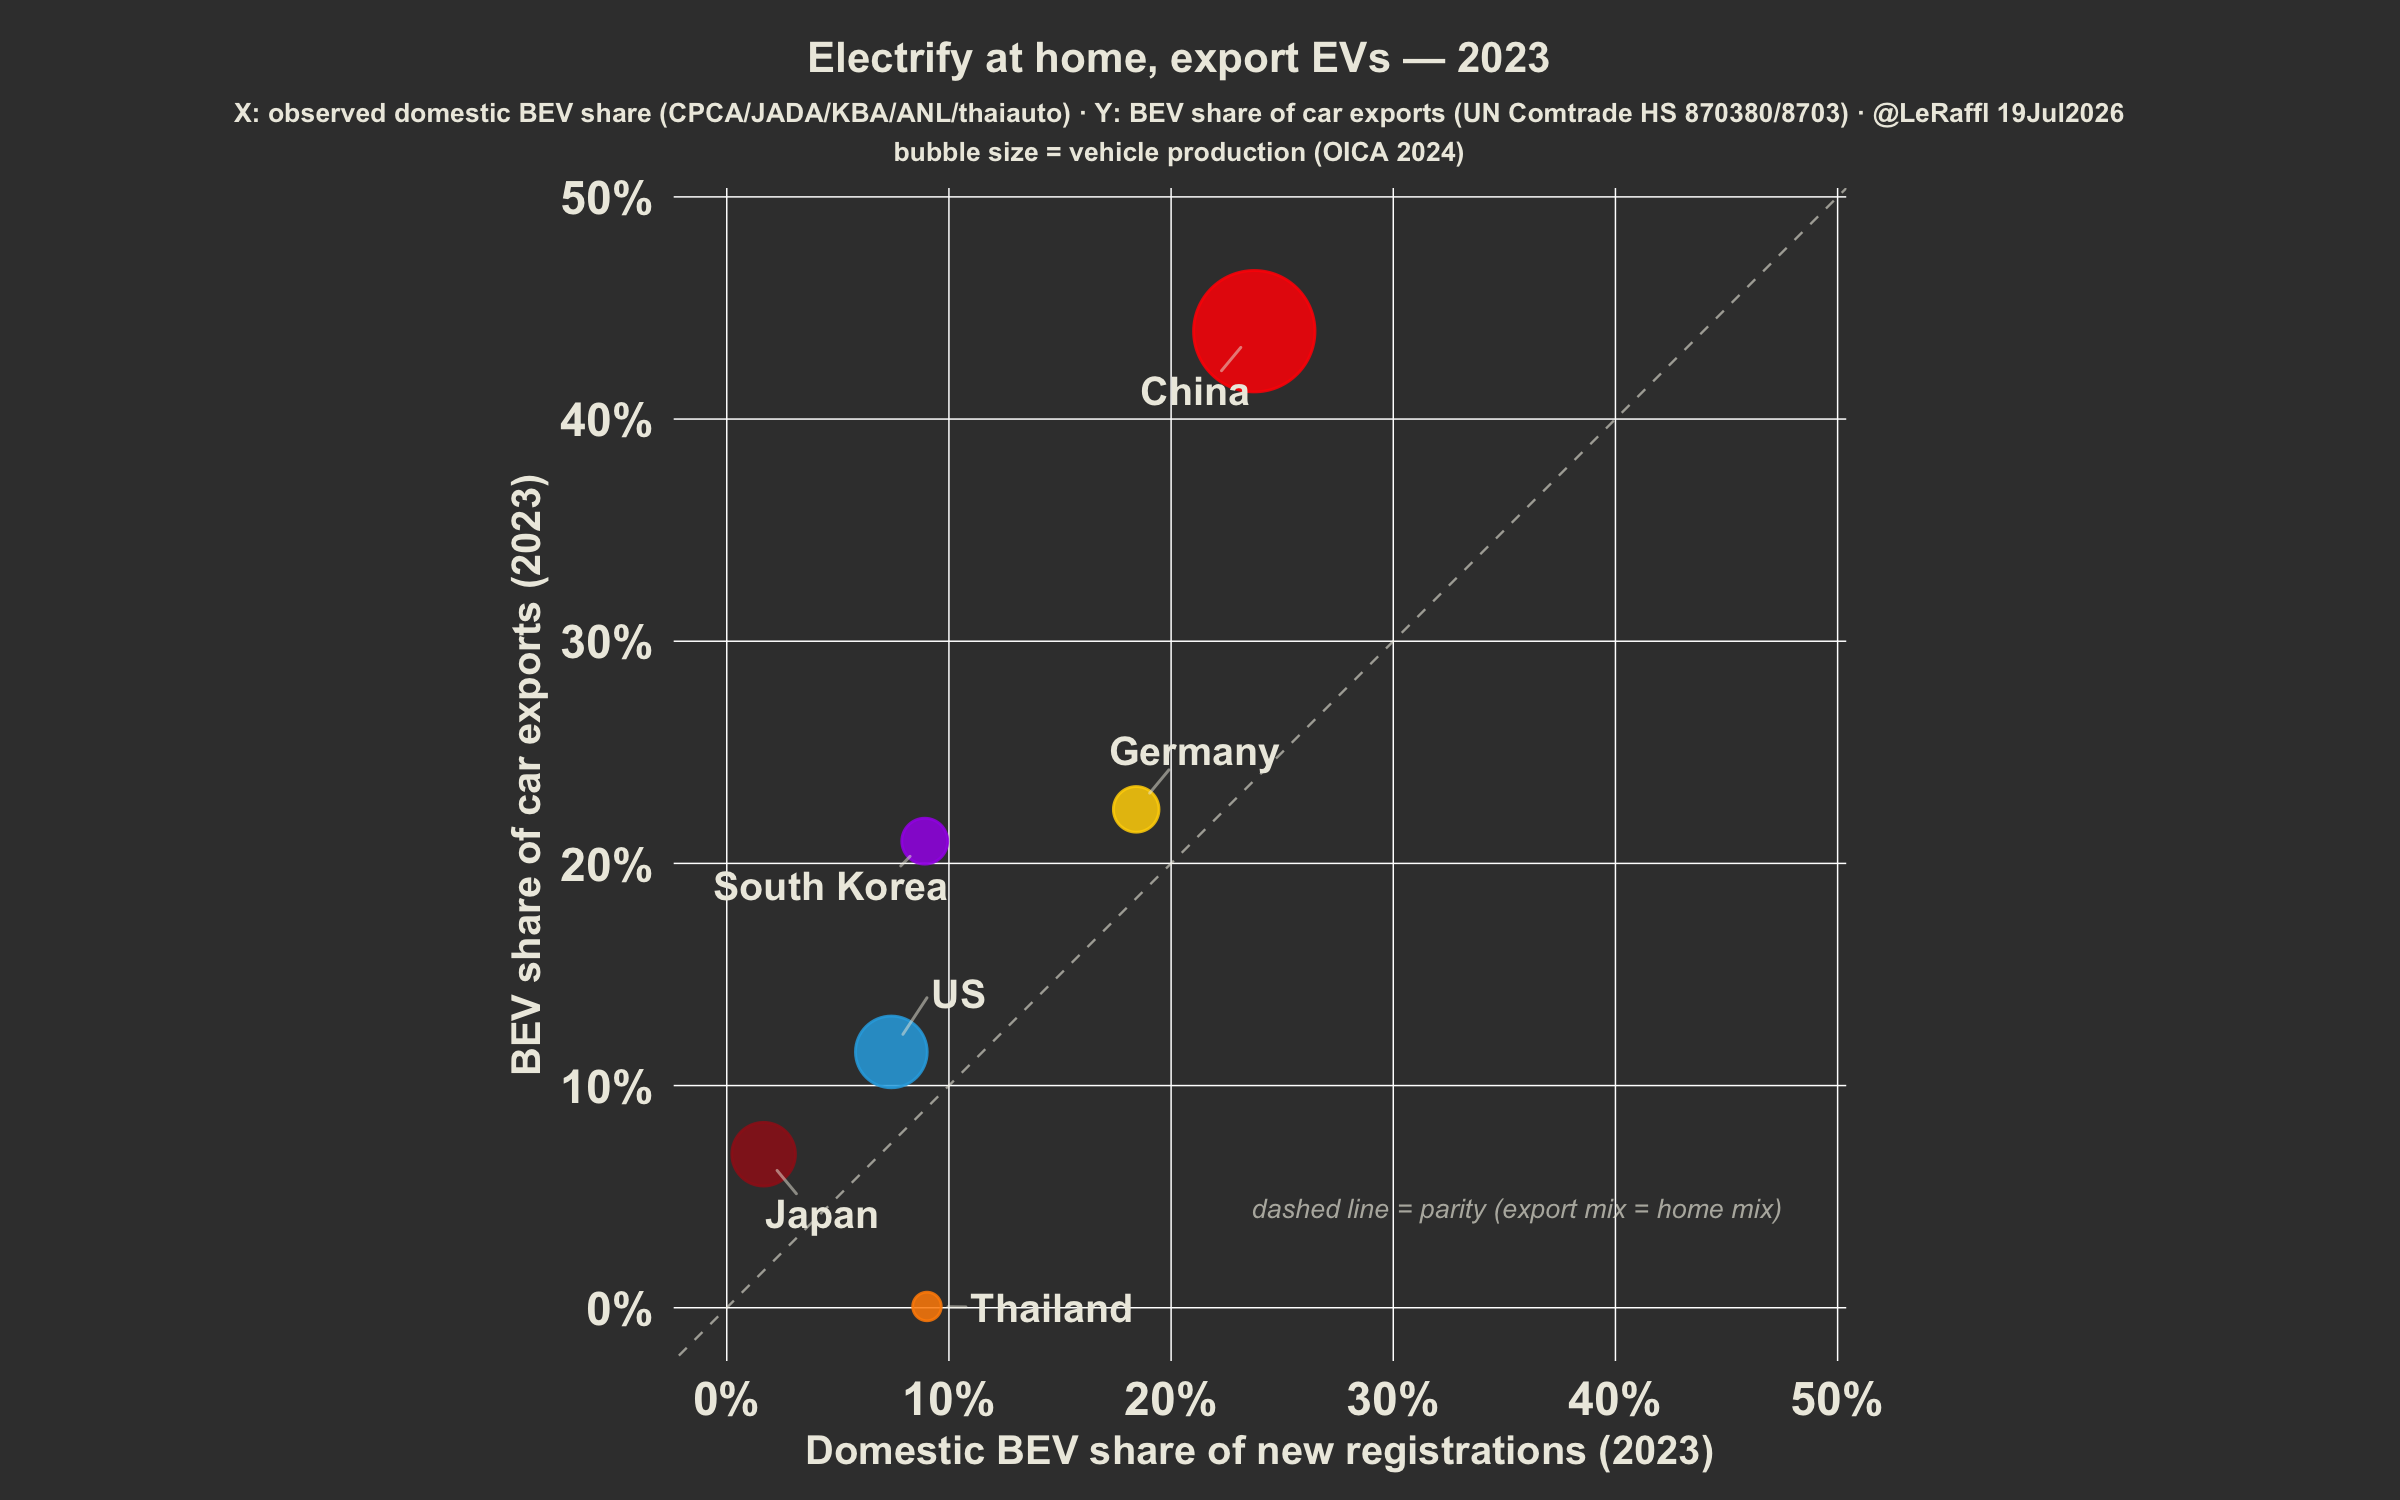
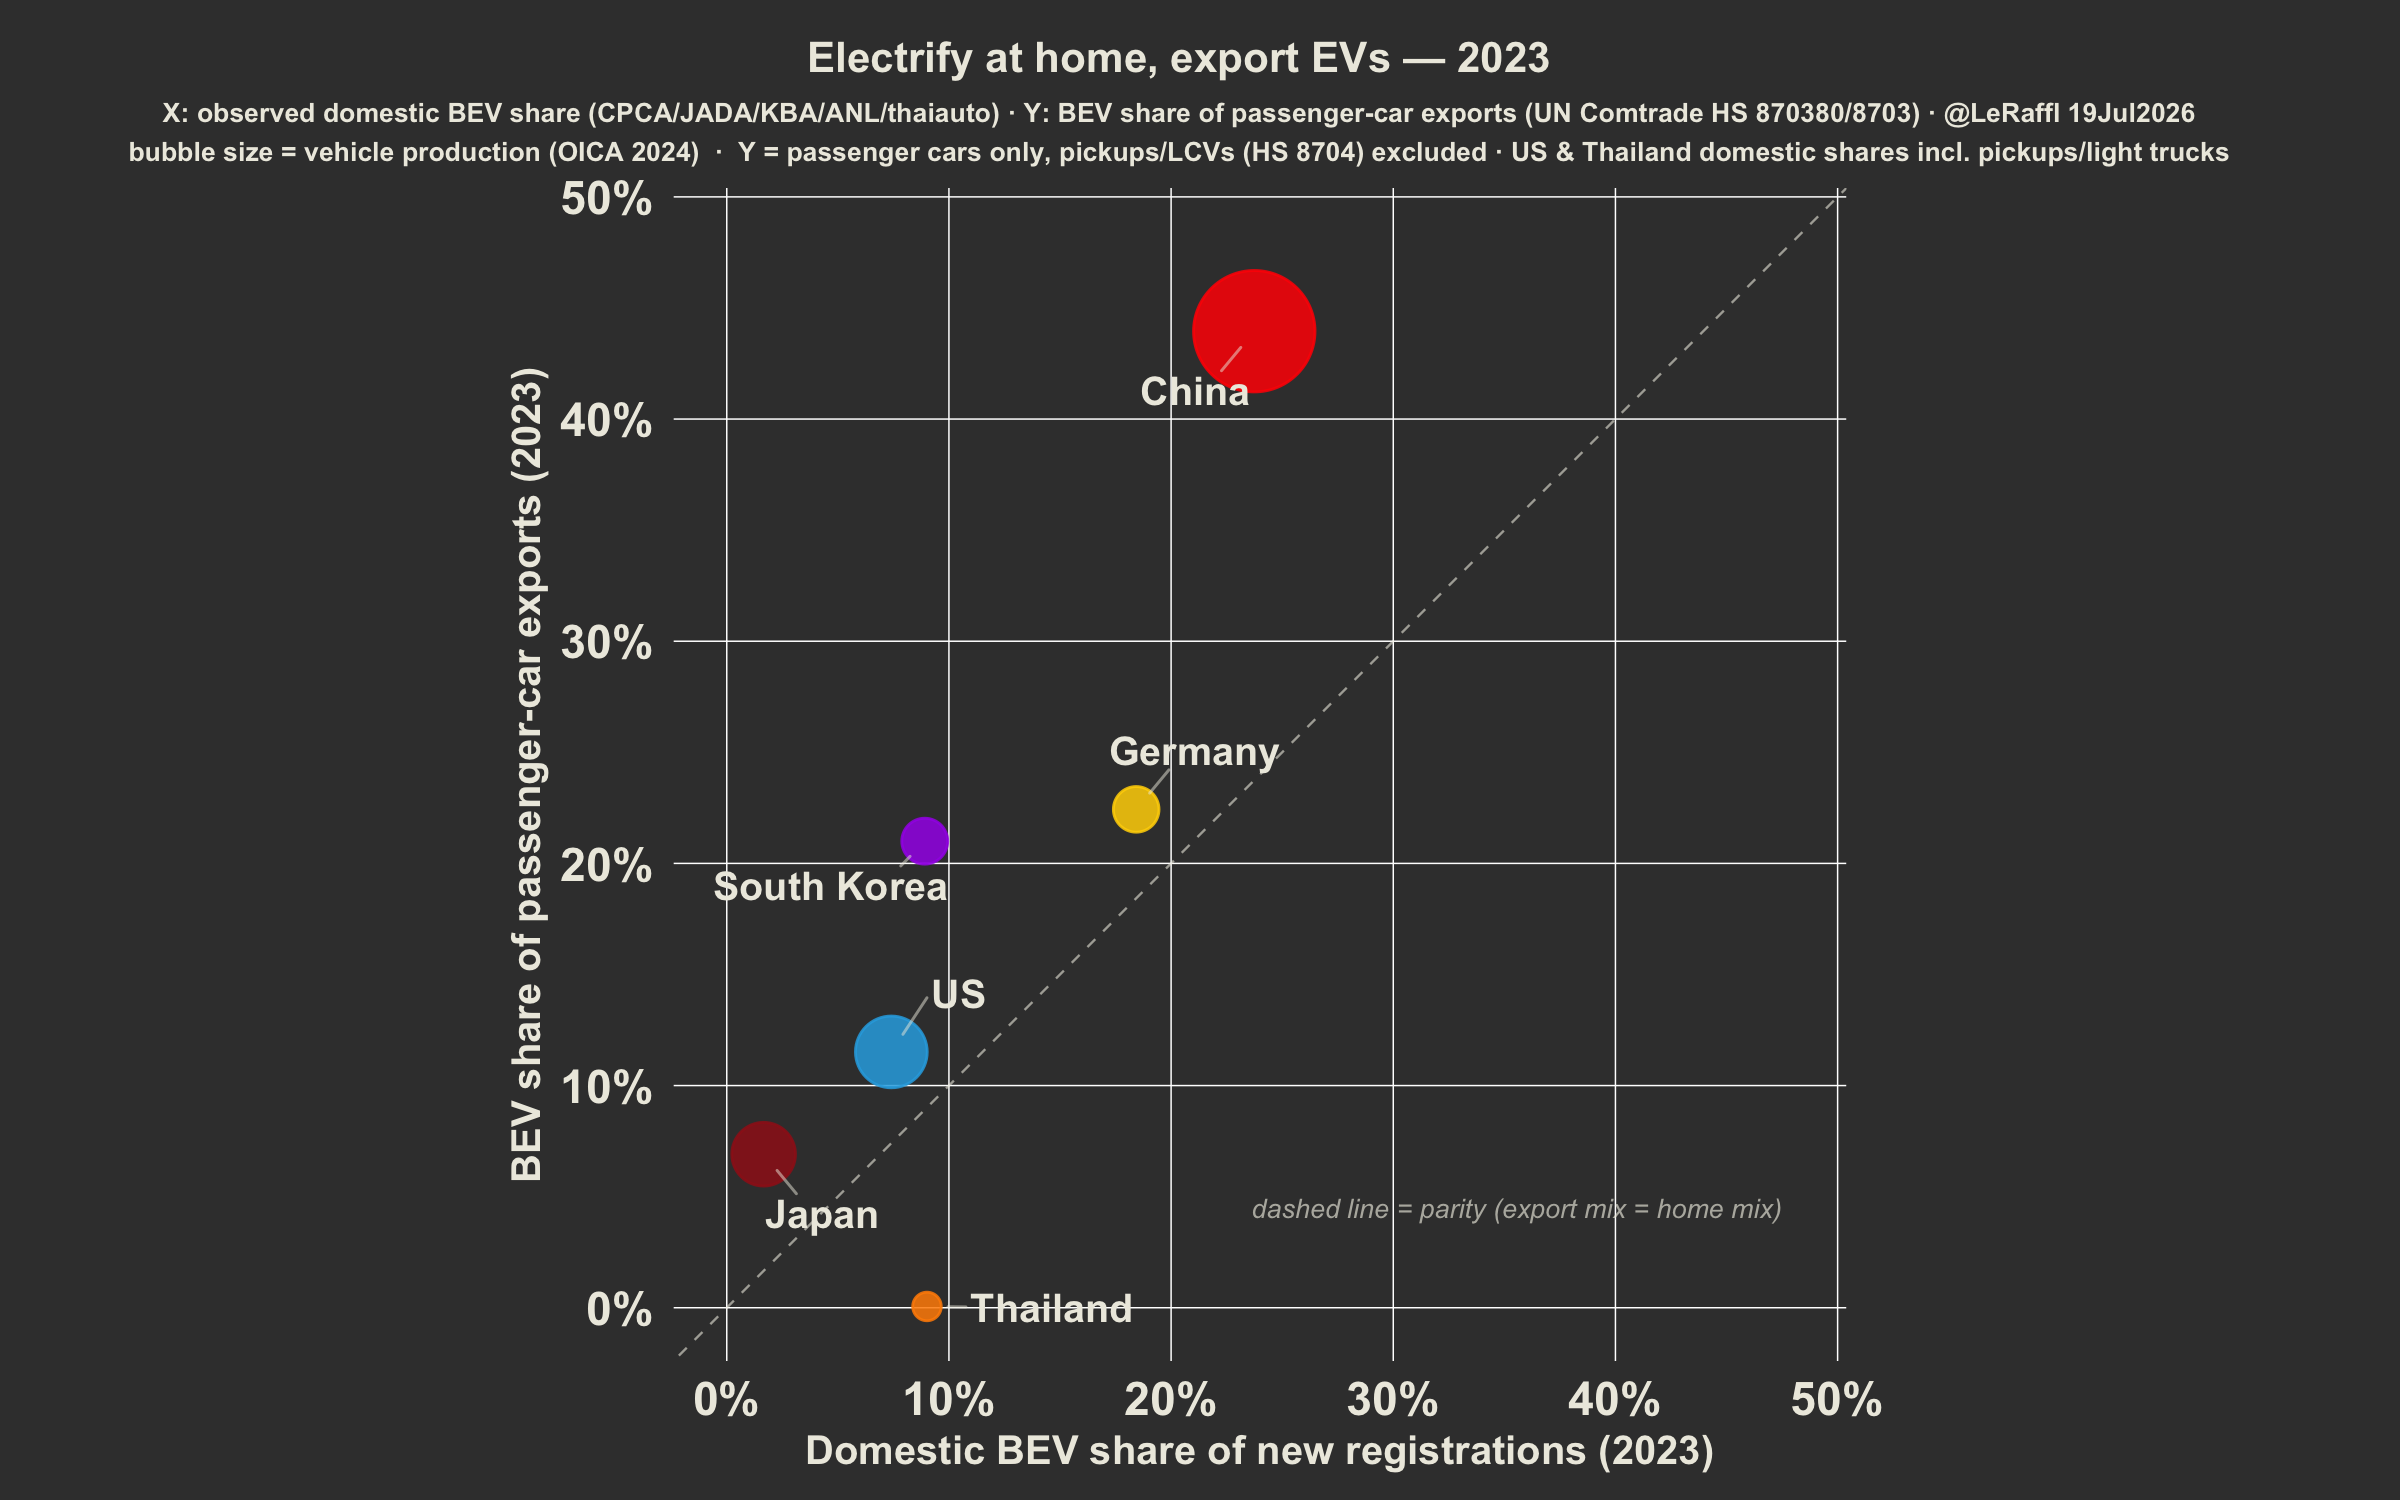
fix(charts): state passenger-car-only scope of export axis honestly
HS 8703 covers passenger cars only — pickups/LCVs are HS 8704 and outside
the Y ratio entirely. Rename the axis to "BEV share of passenger-car
exports", add a scope footnote to every scatter/trajectory (US & Thailand
home shares include pickups/light trucks), and rewrite the methodology:
Thailand's below-parity reading is robust (adding 8704 would sink it
further) but was mis-attributed to pickups that are not in the ratio; the
US parity reading is fragile under the scope mismatch and flagged as such.
All six countries kept with footnotes rather than dropped. Adds the Korea
Metaplant onshoring nuance to the trajectory notes.

Changed region(s): [[0.0625, 0.0613, 0.9375, 0.1227], [0.1875, 0.2453, 0.25, 0.7053], [0.1875, 0.736, 0.25, 0.7667]]

diff --git a/exports/ray_article/export_scatter_METHODOLOGY.md b/exports/ray_article/export_scatter_METHODOLOGY.md
@@ -24,13 +24,18 @@ Thailand — the same six as the domestic BEV-share charts).
   reports these years as clean 12-month monthly data, so there is no interval
   overlap to double-count. Actual figures, not modelled.
 
-### Y — BEV share of car exports (per year)
+### Y — BEV share of passenger-car exports (per year)
 - **What it is:** share of that country's *passenger-car exports, by value*, that
   are battery-electric. The export-side mirror of X.
 - **Definition:** `value(HS 870380) / value(HS 8703)`.
   - **HS 870380** = passenger cars propelled *solely* by electric motor (BEV).
-  - **HS 8703** = all passenger motor cars (BEV is a subheading, so the ratio is a
+  - **HS 8703** = passenger motor cars (BEV is a subheading, so the ratio is a
     clean 0–1 fraction).
+- **⚠ Pickups and LCVs are NOT included.** Goods vehicles — one-ton pickups,
+  vans, light trucks — are **HS 8704** and sit outside both numerator and
+  denominator. Y is strictly a *passenger-car* export mix. This matters most for
+  Thailand (whose export backbone is ICE pickups) and the US (pickup exports):
+  their *total* vehicle-export mix is even more ICE-heavy than Y shows.
 - **Source:** UN Comtrade public preview API
   (`https://comtradeapi.un.org/public/v1/preview/C/A/HS`), export flow, reporter →
   World, annual. No API key. Pulled once into the cache below by
@@ -91,6 +96,10 @@ The **temporal** picture is more nuanced and the trajectory makes it honest:
   *value* rose but total car exports rose too (ICE export booms, e.g. China to
   Russia), and 2024–25 EV demand cooled. So "electrify at home ⇒ rising EV *export
   share*" does **not** hold as a simple time trend for four of six.
+- **South Korea's fall (21% → 13%) is partly production offshoring, not EV
+  retreat:** Hyundai/Kia's US Metaplant replaced Korean-built EV exports to the US
+  with local production. An export-share drop can mean the EVs are now built
+  closer to the customer.
 - **Thailand** moves right (domestic up) while staying near zero on exports.
 
 Framing implication: present the scatter as a **cross-sectional ordering**
@@ -99,16 +108,37 @@ rising export share over time — the trajectory would contradict that stronger
 claim.
 
 ## Caveats
-- **Thailand is the structural outlier.** Its domestic BEV uptake is driven by
-  *imported* Chinese BEVs and local assembly for the home market, while its export
-  base is still overwhelmingly ICE pickup trucks (the ASEAN/Australia hub). Its BEV
-  export capacity (EV3.0/3.5) is only ramping now. Treat it as a transition case.
+- **Vehicle-scope mismatch between X and Y (the main caveat).** X covers each
+  country's *home-market registrations as reported by its source*: passenger cars
+  for China (CPCA) and Germany (KBA), but **light-duty vehicles including
+  pickups/light trucks for the US (ANL)** and **including pickups for Thailand**
+  (thaiauto — pickups are the majority of the Thai home market). Y covers
+  *passenger cars only* (HS 8703). Consequences:
+  - The **cross-sectional clustering is robust** (US and Japan are laggards on
+    both axes regardless of scope; China and Germany lead on both).
+  - The **parity reading is fragile for the US and Thailand**: a cars-only US
+    home share would be higher than 7.8% (light trucks are ~80% of the US market
+    and mostly ICE), which could move the US to or below parity. Do not build an
+    argument on the US's exact position relative to the line.
+  - All six countries are kept, with this caveat, rather than dropped — removing
+    the US or Thailand would gut the leaders/laggards comparison the charts exist
+    to show, and their *cluster* positions are scope-robust.
+- **Thailand is the structural outlier — precisely stated:** ~97% of its
+  *passenger-car* exports are still ICE, while its home market electrifies via
+  imported Chinese BEVs and local assembly. Its main export line — ICE one-ton
+  pickups — is HS 8704 and **not in Y at all**, so Thailand's total vehicle-export
+  mix is even more combustion-heavy than the chart shows; adding pickups would
+  push it further below parity, not less. Its BEV export capacity (EV3.0/3.5,
+  Chinese-brand plants exporting from 2024) is only ramping now: the 2023→2024
+  jump from 0.1% to 3.0% is that ramp starting. Treat it as a transition case.
 - **HS 870380 is only clean from ~2017/2018** (before HS2017, BEVs sat in the
   residual code 870390) — so this method does not support a longer time series.
 - **Comtrade aggregate row must be forced** (`partner2Code=0&motCode=0&customsCode=C00`),
   else the API returns per-transport-mode sub-rows that double-count on summation
   (raw Germany summed to a false ~$159B vs the true ~$40B aggregate).
 - **Re-exports** (transhipment hubs) can inflate some reporters; the six here are
-  primary producers, so the effect is minor.
+  primary producers, so the effect is minor. Comtrade also does not separate
+  new from used vehicles (relevant to Japan's large used-car exports, though by
+  *value* the effect is modest).
 - **X and Y come from different pipelines** (registration CSVs vs customs records);
   both are observed data, with the usual registration-vs-customs definitional slack.
